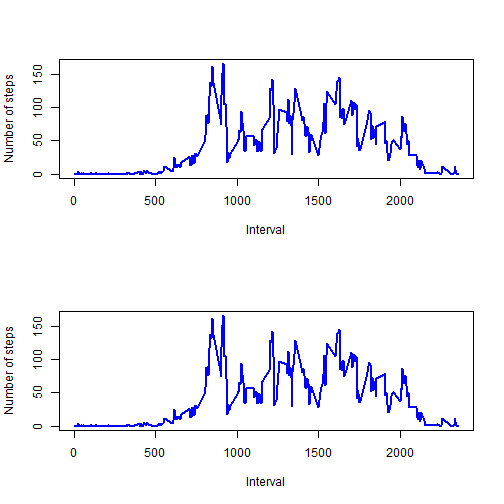
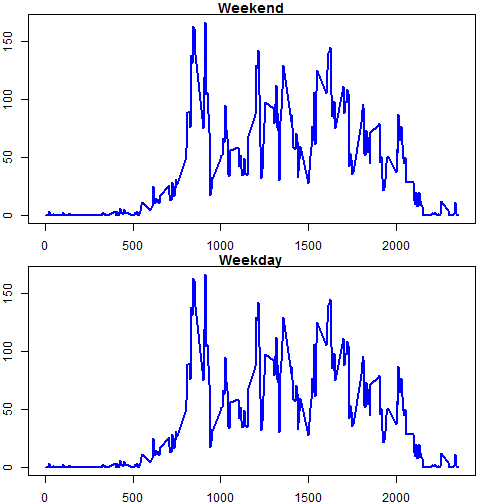
Complete Assignment 1 - Update 1

diff --git a/PA1_template.html b/PA1_template.html
@@ -117,12 +117,13 @@ qplot(steps, data = data3)</code></pre>
 <h2>Are there differences in activity patterns between weekdays and weekends?</h2>
 <pre class="r"><code>newActivity$WEND &lt;- factor(newActivity$datetime$wday == 0 | newActivity$datetime$wday == 6,levels=c(TRUE,FALSE),labels=c(&quot;weekend&quot;,&quot;weekday&quot;))
 par(mfrow=c(2,1))
+par(mar = c(2, 2, 1, 2))
 
 weekendAct &lt;- aggregate(steps ~ interval, data=subset(newActivity, WEND == &quot;weekend&quot;), mean)
 weekdayAct &lt;- aggregate(steps ~ interval, subset(newActivity, WEND == &quot;weekday&quot;), mean)
-plot(weekendAct$interval, weekendAct$steps, type=&quot;l&quot;, xlab= &quot;Interval&quot;, ylab= &quot;Number of steps&quot;, col=&quot;blue&quot; , lwd=2)
-plot(weekdayAct$interval, weekendAct$steps, type=&quot;l&quot;, xlab= &quot;Interval&quot;, ylab= &quot;Number of steps&quot;, col=&quot;blue&quot; , lwd=2)</code></pre>
[1 lines of base64/hex data omitted]
+plot(weekendAct$interval, weekendAct$steps, type=&quot;l&quot;, main=&quot;Weekend&quot;, xlab= &quot;Interval&quot;, ylab= &quot;Number of steps&quot;, col=&quot;blue&quot; , lwd=2)
+plot(weekdayAct$interval, weekendAct$steps, type=&quot;l&quot;, main=&quot;Weekday&quot;, xlab= &quot;Interval&quot;, ylab= &quot;Number of steps&quot;, col=&quot;blue&quot; , lwd=2)</code></pre>
[1 lines of base64/hex data omitted]
 </div>
 
 

diff --git a/PA1_template.md b/PA1_template.md
@@ -122,11 +122,12 @@ median(data3$steps)
 ```r
 newActivity$WEND <- factor(newActivity$datetime$wday == 0 | newActivity$datetime$wday == 6,levels=c(TRUE,FALSE),labels=c("weekend","weekday"))
 par(mfrow=c(2,1))
+par(mar = c(2, 2, 1, 2))
 
 weekendAct <- aggregate(steps ~ interval, data=subset(newActivity, WEND == "weekend"), mean)
 weekdayAct <- aggregate(steps ~ interval, subset(newActivity, WEND == "weekday"), mean)
-plot(weekendAct$interval, weekendAct$steps, type="l", xlab= "Interval", ylab= "Number of steps", col="blue" , lwd=2)
-plot(weekdayAct$interval, weekendAct$steps, type="l", xlab= "Interval", ylab= "Number of steps", col="blue" , lwd=2)
+plot(weekendAct$interval, weekendAct$steps, type="l", main="Weekend", xlab= "Interval", ylab= "Number of steps", col="blue" , lwd=2)
+plot(weekdayAct$interval, weekendAct$steps, type="l", main="Weekday", xlab= "Interval", ylab= "Number of steps", col="blue" , lwd=2)
 ```
 
 ![plot of chunk unnamed-chunk-7](figure/unnamed-chunk-7-1.png) 
